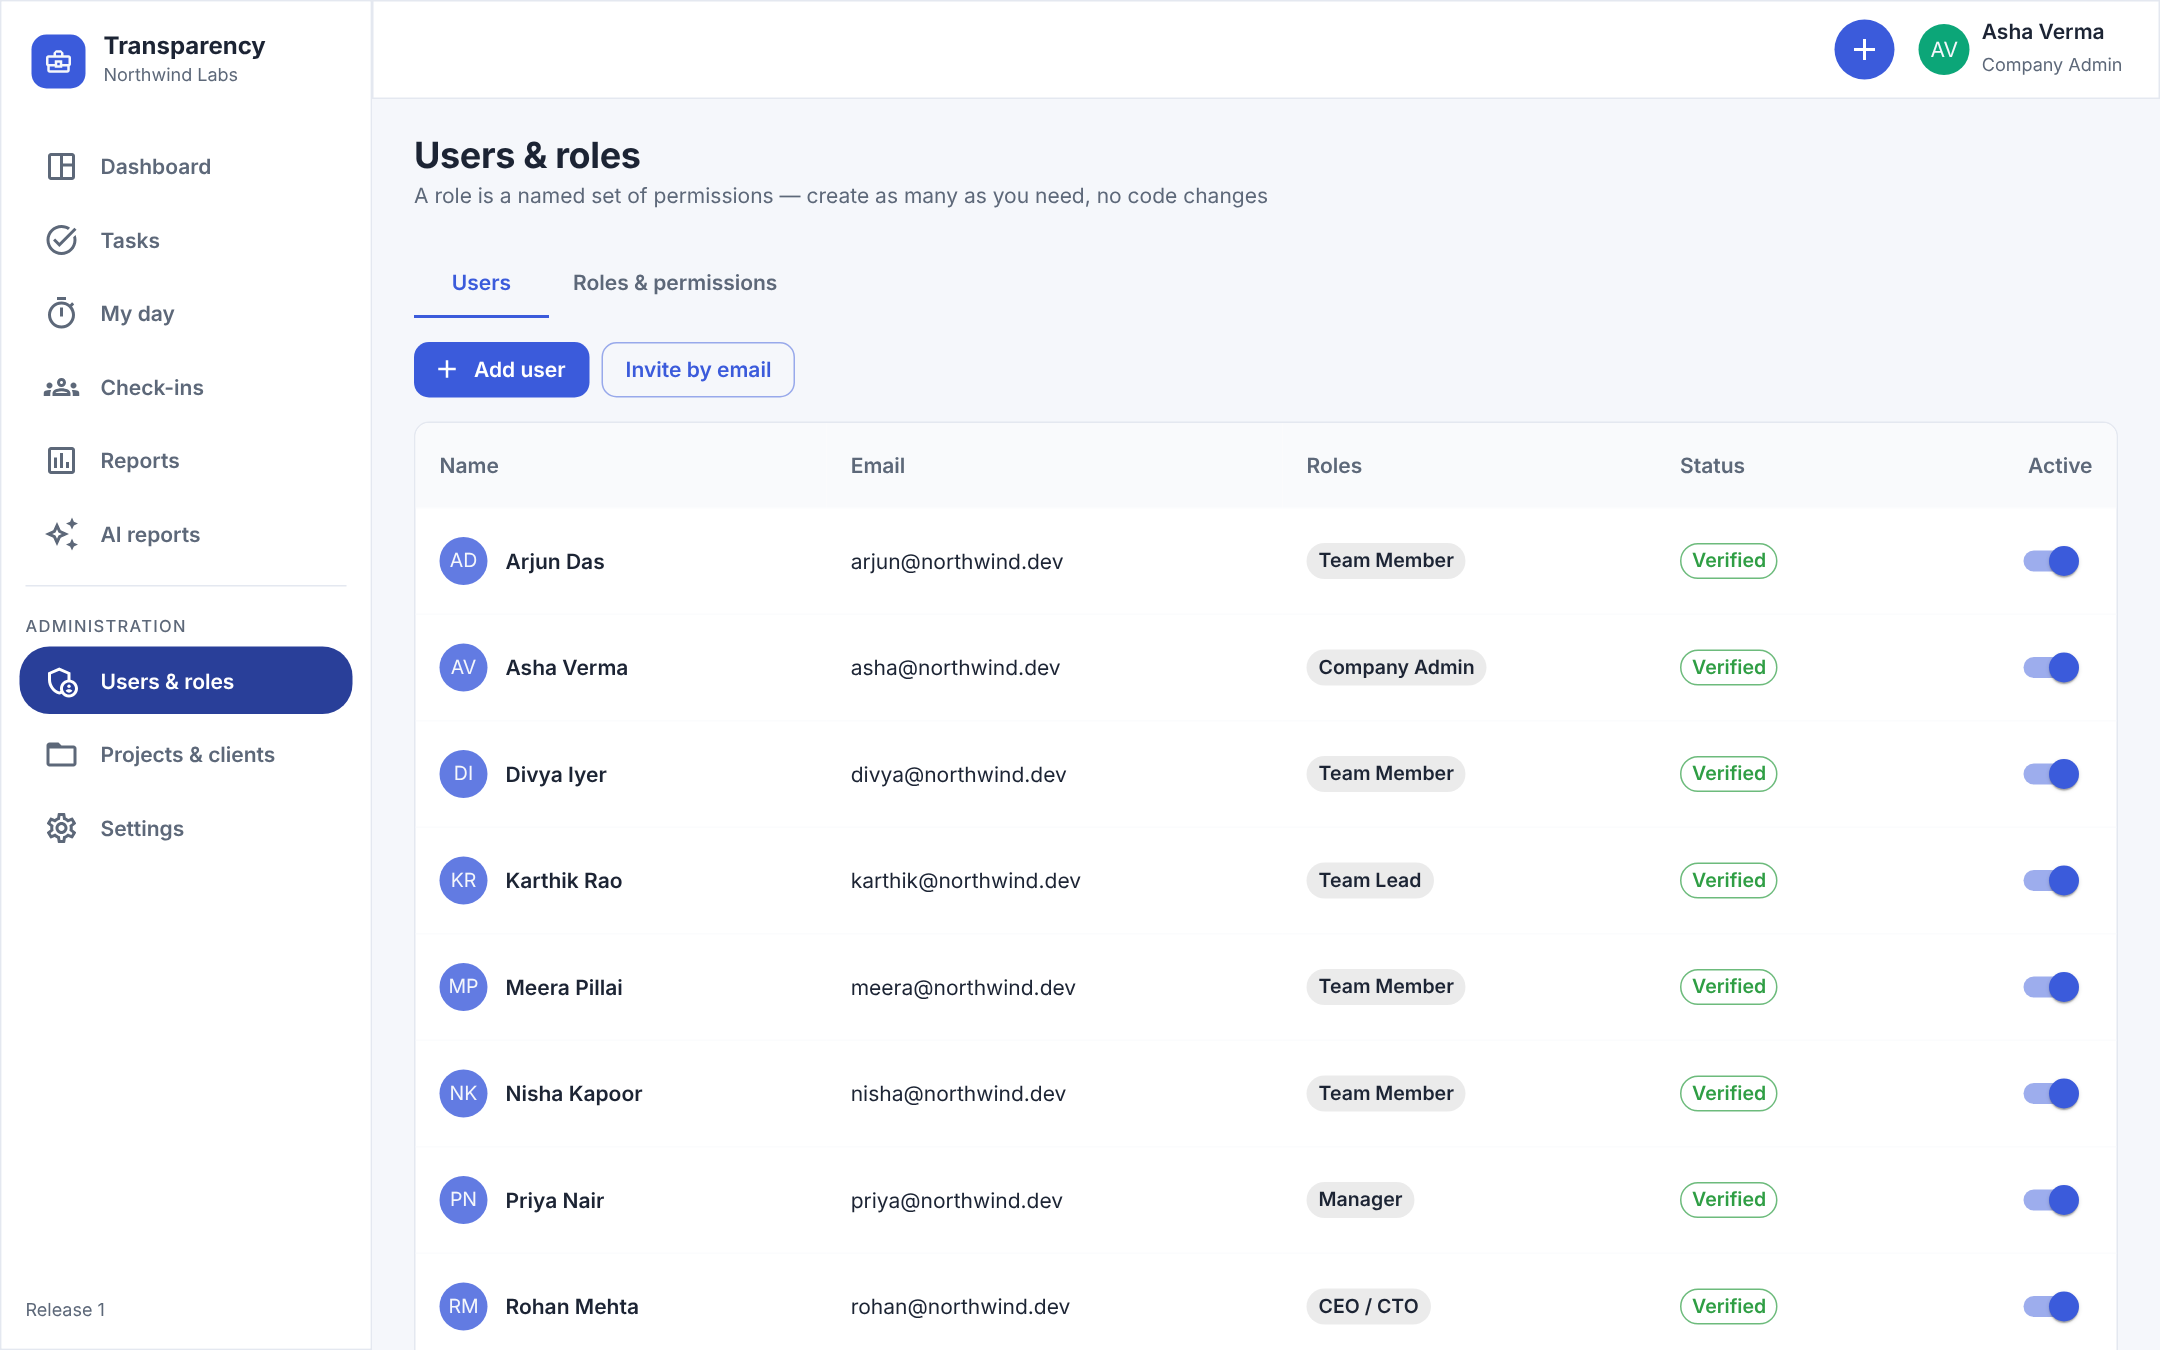
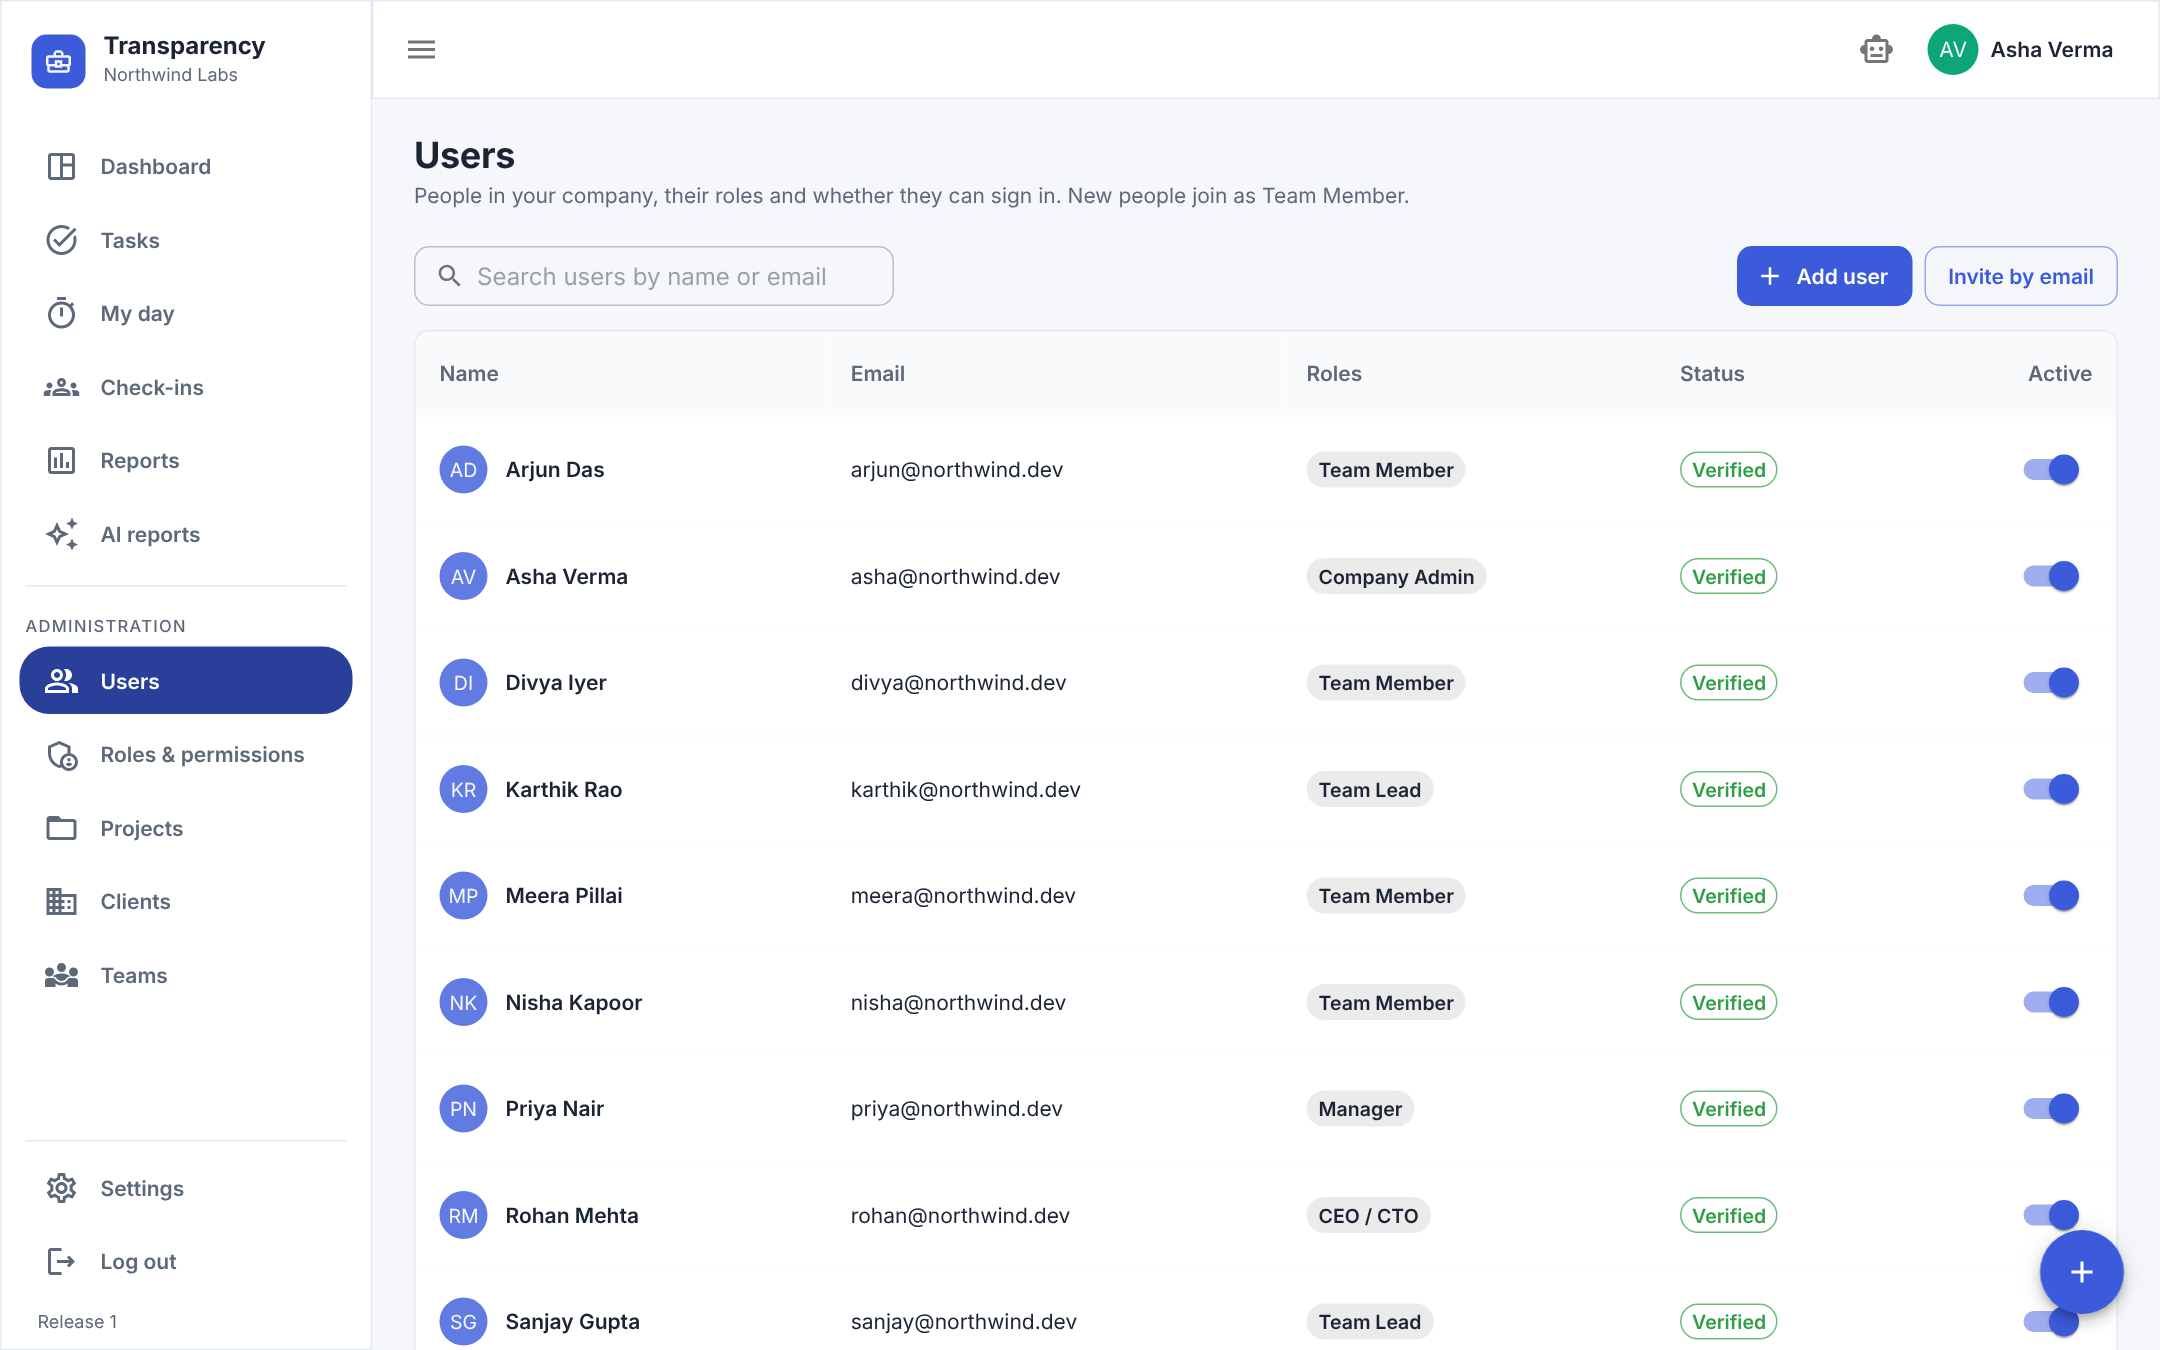
README and screenshots for the account chrome / admin pages
Claude-Session: https://claude.ai/code/session_01FYKC7kHuJsNbDcYAz3DTJh

diff --git a/README.md b/README.md
@@ -162,6 +162,10 @@ partial-failure retry, and schedule timing per company timezone.
   results (a failed one becomes "I could not confirm one detail…"; e-mail addresses and phone numbers can never pass). A "Where this comes from" card (rows, total, as-of time,
   hand-off to AI reports) is built by code. Conversations live in `ai_conversations` / `ai_messages` (30 days), with per-user (10/min) and per-company (500/day) limits and a
   company switch (`ai_assistant_enabled`). Key `assistant.use` is seeded on every role.
+* **Account and admin chrome** – the header shows first + last name and opens *Profile* (job title, phone, location, about me, change password), *Preferences* (reminder emails — honoured by
+  the worker —, compact tables, start page) and *Log out*; the sidebar toggles on every screen size and keeps *Settings* and *Log out* at the bottom; the add-status button floats bottom-right.
+  Admin has separate pages for Users, Roles & permissions, Projects, Clients and Teams. **Teams work like departments** (description, lead, members, open/total tasks) and a task can belong to a
+  team. Every search box calls the API only from **3 typed characters**. New people join as **Team Member**, which has no AI assistant (grant `assistant.use` to any role that should).
 * **Project owners** – a project can have owners (Admin → Projects & clients). An owner sees every task, comment, time entry and
   dashboard figure inside that project, whoever created it or is assigned to it (view only; editing still follows `task.edit.*`,
   and daily-status text is never widened). Company Admin, Manager and CEO/CTO hold `…view.all`, so they see every project.
